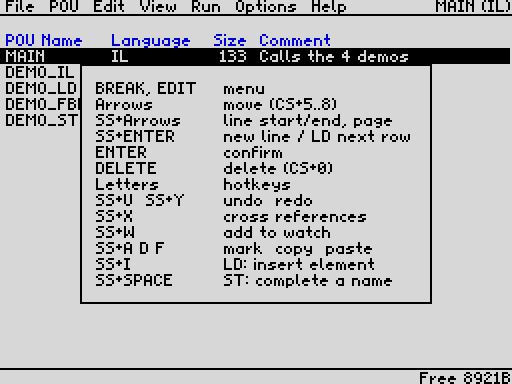
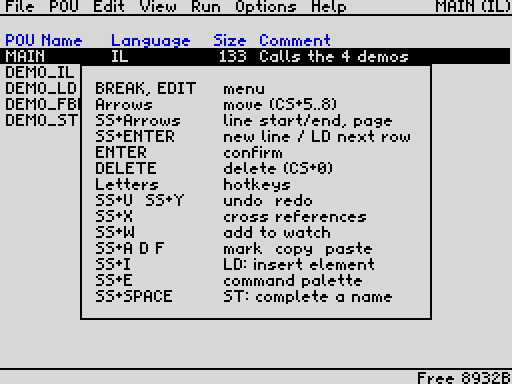
Command palette: SS+E (Ctrl+E) on every screen
SS+E opens a list of every POU and every menu command; typing a part of
a name narrows it (substring, not case sensitive), UP / DOWN select,
ENTER or a click runs the command or opens the POU in its editor, BREAK
closes it. kb_get turns the new key K_PAL into K_EDIT with pal_req set,
so every screen opens it through its menu path; menu_run then calls
pal_run (src/complete.asm, DEMO bank), which reuses the list window of
the ST name completion (split out as ac_ui).

Help > Controls, the manual (with a screenshot), README, the browser
page (Ctrl+E kept from the browser) and two UI tests (40 checks).

Claude-Session: https://claude.ai/code/session_01VKWfWdLZ4jVfo626yCcR9d

Changed region(s): [[0.1562, 0.6875, 0.8438, 0.8438], [0.8125, 0.9688, 0.9688, 1.0]]

diff --git a/web/index.html b/web/index.html
@@ -52,7 +52,8 @@
     <tr><td><kbd>Esc</kbd> or <kbd>Tab</kbd></td><td>open / close the menu (BREAK / EDIT)</td></tr>
     <tr><td><kbd>Shift</kbd></td><td>CAPS SHIFT</td></tr>
     <tr><td><kbd>Ctrl</kbd></td><td>SYMBOL SHIFT (SS); e.g. <kbd>Ctrl</kbd>+<kbd>U</kbd> undo,
-      <kbd>Ctrl</kbd>+<kbd>Y</kbd> redo, <kbd>Ctrl</kbd>+<kbd>Space</kbd> complete a name (ST)</td></tr>
+      <kbd>Ctrl</kbd>+<kbd>Y</kbd> redo, <kbd>Ctrl</kbd>+<kbd>Space</kbd> complete a name (ST),
+      <kbd>Ctrl</kbd>+<kbd>E</kbd> command palette</td></tr>
     <tr><td>Arrows, <kbd>Backspace</kbd>, <kbd>Enter</kbd></td><td>cursor keys, DELETE, ENTER</td></tr>
     <tr><td><kbd>%</kbd> <kbd>!</kbd> <kbd>$</kbd> <kbd>(</kbd> <kbd>)</kbd> &hellip;</td>
       <td>typed as on a PC keyboard (sent as SS + the Spectrum key); operands are e.g. <code>%IX0.0</code></td></tr>
@@ -96,7 +97,8 @@
   }
   window.addEventListener('keydown', e => {
     if (e.zxSynth || e.metaKey || e.altKey) return;
-    if (e.ctrlKey && e.key === ' ') e.preventDefault();   // Ctrl+Space = SS+SPACE (ST completion)
+    if (e.ctrlKey && (e.key === ' ' || e.key === 'e' || e.key === 'E'))
+      e.preventDefault();   // Ctrl+Space / Ctrl+E = SS+SPACE / SS+E (completion, palette)
     let mod, key;
     if (e.key in CS) { mod = 16; key = CS[e.key]; }
     else if (e.key in SS && !e.ctrlKey) { mod = 17; key = SS[e.key]; }

diff --git a/tools/st_uitest.py b/tools/st_uitest.py
@@ -40,7 +40,7 @@ def T(text):
 
 
 class UI:
-    def __init__(self, shots=None, mouse=False):
+    def __init__(self, shots=None, mouse=True):
         self.z = Spectrum(SNA)
         self.z.mouse = mouse
         self.z.noborder = False
@@ -134,6 +134,10 @@ class UI:
         if not a:
             return ""
         return bytes(self.mem(a, 60)).split(b"\0")[0].decode("latin1")
+
+    def sim_running(self):
+        """the simulation screen is in RUN (sm_run, EDIT bank)"""
+        return self.z.bank_bytes(0, self.sym("sm_run"), 1)[0] != 0
 
     def compile_error(self):
         """(message, line 1-based) of the last compile error"""
@@ -450,10 +454,38 @@ def t_view(ui):
     check("view: status bar = local", "local INT" in st, repr(st))
 
 
+PAL = "k:SS+E w60 "
+
+
+def t_palette(ui):
+    """SS+E: the command palette on every screen: POUs and menu commands,
+    filtered by a part of the name"""
+    # POU list: "dem", the second one (DEMO_LD) -> its editor
+    ui.play(PAL + T("dem") + "shot:pal_filter " + D + "k:ENTER w100 shot:pal_pou ")
+    check("palette: POU opened", ui.mem(ui.sym("cur_pou"))[0] == ui.slot_of("DEMO_LD"),
+          ui.mem(ui.sym("cur_pou"))[0])
+    # BREAK: no command, the screen restored
+    ui.play(PAL + "k:CS+SPACE w40 shot:pal_break ")
+    check("palette: BREAK keeps the POU", ui.mem(ui.sym("cur_pou"))[0] == ui.slot_of("DEMO_LD"))
+    # a letter with no match is refused: "runq" stays "run"
+    ui.play(PAL + T("runq") + "shot:pal_run ")
+    ui.play("k:ENTER w300 shot:pal_sim ")                # Run > Run
+    check("palette: Run runs the simulation", ui.mw(0) >= 0 and ui.sim_running(),
+          ui.sim_running())
+
+
+def t_palmouse(ui):
+    """a click on an entry of the palette"""
+    ui.play("w60 k:CS+1 w10 k:H w10 k:O w10 k:M w30 ")    # Options > Mouse
+    ui.play(PAL + T("st") + "w20 at:100,28 w10 cl:L w100 shot:pal_click ")
+    check("palette: click opens DEMO_ST", ui.mem(ui.sym("cur_pou"))[0] == ui.slot_of("DEMO_ST"),
+          ui.mem(ui.sym("cur_pou"))[0])
+
+
 TESTS = {"long": t_long, "edit": t_edit, "clip": t_clip, "autodecl": t_autodecl,
          "manual": t_manual, "compl": t_compl, "autorun": t_autorun,
          "errors": t_errors, "varpaste": t_varpaste, "toolong": t_toolong,
-         "view": t_view}
+         "view": t_view, "palette": t_palette, "palmouse": t_palmouse}
 
 
 def main():

diff --git a/tools/docshots.py b/tools/docshots.py
@@ -41,6 +41,7 @@ SHOTS = [
     ("fbd_picker", FBD + D + "k:ENTER w30"),
     ("fbd_pv", FBD + D * 6 + "k:CS+8 w4 " * 5 + "k:T w30"),
     ("st_editor", ST + D * 3 + "w60"),
+    ("palette", "w40 k:SS+E w60 t:co w40"),
     ("st_compl", ST + D * 4 + "k:SS+ENTER w30 t:T w5 k:SS+SPACE w60 " + D + "w20"),
     ("st_vars", ST + D * 4 + "k:SS+ENTER w30 t:count~:=~count~+~1; w5 " + D + "w40"),
     ("symbols", MENU + "k:E w5 k:S w60"),

diff --git a/CLAUDE.md b/CLAUDE.md
@@ -203,6 +203,12 @@ editor and key for users.
     the menu is open (Run > Reset E, Edit > Paste P, POU > Rename R are accepted). A new item must not
     take R in the File / Edit / View menus (EDIT, R, R starts the program).
   - The menu bar title (`menu_pou`) shows the POU name, or Symbols / Watch / Trend (`mp_alt`).
+  - Command palette (SS+E = `K_PAL`, Ctrl+E in the browser): `kb_get` turns K_PAL into K_EDIT and sets
+    `pal_req`, so every screen opens "the menu"; `menu_run` then calls `BCALL pal_run`
+    (src/complete.asm) instead of the drop-downs: the list window of the name completion (`ac_ui`,
+    `ac_pal` = substring filter, a letter without match refused) with every POU (kind 4) and every
+    menu item (kind 3, from `menu_top` / `mi_*`); it returns the item's command, or `cur_pou` +
+    `CMD_EDIT` for a POU. Any other key clears `pal_req`.
 - **Project format** (src/project.asm, defs.asm):
   - A header with "ZXPLC" and P_LEN, then a table of 8 POU slots + a hidden slot 8 (the symbol table),
     32 B each: name, language, length, comment, plus a hidden slot 9 (watch list, PROJ_VER 2;

diff --git a/docs/MANUAL.md b/docs/MANUAL.md
@@ -84,6 +84,15 @@ The cursor keys are CAPS SHIFT + 5 / 6 / 7 / 8, DELETE is CAPS SHIFT + 0. Combin
 | SS + A | mark the start of a block (again: remove the mark) |
 | SS + D | copy the block (or the current line / rung / network) |
 | SS + F | paste in front of the cursor |
+| SS + E | command palette (Ctrl+E in the browser) |
+| SS + SPACE | ST: complete a name (Ctrl+Space in the browser) |
+
+**Command palette (SS+E).** On every screen SS+E opens a list of all POUs and all menu commands. Typing
+a part of a name narrows it (`co` finds Copy, Controls and Rename/Comment...; `dem` the demo POUs), UP /
+DOWN select, ENTER or a click runs the command or opens the POU in its editor, BREAK closes the list.
+A letter that fits no entry is refused.
+
+![Command palette](img/palette.png)
 
 **Help > Controls** shows a short list of the keys:
 

diff --git a/README.md b/README.md
@@ -38,6 +38,7 @@ not downloaded to a real PLC; they run in the built-in simulation with live moni
 * **Kempston mouse:** detected automatically and switched on in the menu. A pointer, and clicks in menus,
   lists, all editors and on the simulator's LEDs.
 * **Comfort of a modern IDE:**
+  * a command palette (SS+E, Ctrl+E in the browser): type a part of any command or POU name;
   * mark / copy / cut / paste, also between POUs;
   * undo and redo over many steps, duplicate a POU;
   * cross references with a jump to each use;
